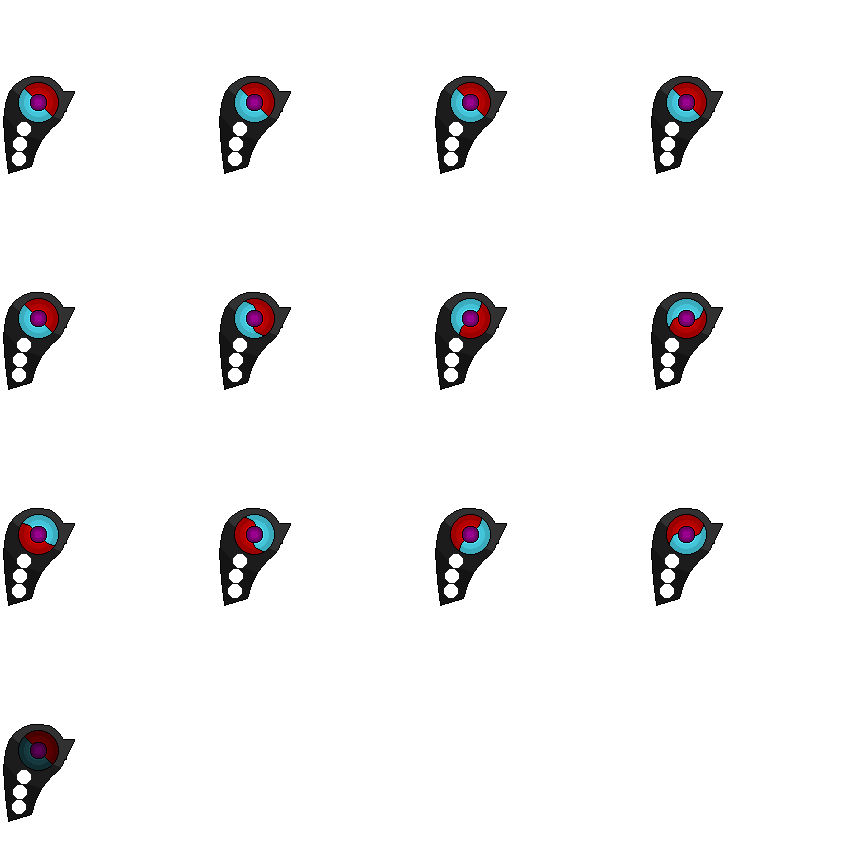
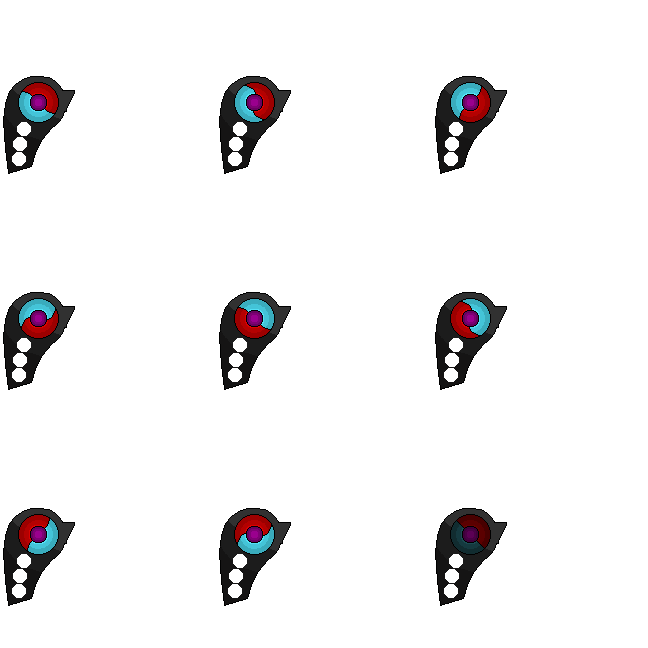
coisos novos

diff --git a/client/js/firstLevel.js b/client/js/firstLevel.js
@@ -9,11 +9,11 @@ var MUSIC_TitleOpening;
 
 var php_bar;
 var pmn_bar;
-var bhp_bar;
 var psp_hud;
-
+var bsp_hud;
 var playerX;
 var playerY;
+var bhp_bar;
 
 var cursors;
 var gameOver = false;
@@ -23,7 +23,7 @@ var gameOver = false;
 //Declaração de variáveis de estado
 var php = 5; //Define HP do Cavaleiro e Mago
 var pmn = 3; //Define Mana do Mago
-var bhp; //Define HP do chefe
+var bhp = 10; //Define HP do chefe
 
 var MUSIC_TitleOpening_Time = 0; //Para tocar apenas uma vez quando inicia o jogo
 var wasJumping = false; //Serve para tocar o som de aterrisagem, assim muda a variável e toca o som
@@ -133,8 +133,12 @@ firstLevel.preload = function () {
     frameHeight: 216,
   });
   this.load.spritesheet("BHP_Bar", "assets/hud/BHP_Bar.png", {
-    frameWidth: 384,
-    frameHeight: 192,
+    frameWidth: 512,
+    frameHeight: 256,
+  });
+  this.load.spritesheet("BSP_HUD", "assets/hud/BSP_HUD.png", {
+    frameWidth: 512,
+    frameHeight: 256,
   });
 
   //Botões
@@ -176,7 +180,7 @@ firstLevel.preload = function () {
 
 //CREATE
 firstLevel.create = function () {
-  this.cameras.main.setBounds(0, 0, 1000, 800);
+  this.cameras.main.setBounds(0, -150, 1000, 800);
 
   //Criando as teclas
   //Cavaleiro
@@ -231,6 +235,7 @@ firstLevel.create = function () {
     if (p_justAttacked === false && dodging === false) {
       SFX_Hit.play();
       php = php - 1;
+      bhp = bhp - 1;
       p_justAttacked = true;
       p_attackedCooldown = 0;
 
@@ -258,8 +263,10 @@ firstLevel.create = function () {
   php_bar = this.add.image(120, 45, "PHP_Bar", 0).setScrollFactor(0);
   psp_hud = this.add.sprite(120, 45, "PSP_HUD", 0).setScrollFactor(0);
   pmn_bar = this.add.image(120, 45, "PMN_Bar", 0).setScrollFactor(0);
-  bhp_bar = this.add.image(600, 520, "BHP_Bar", 0).setScrollFactor(0);
-  bhp_bar.visible = false;
+  bhp_bar = this.add.image(575, 565, "BHP_Bar", 0).setScrollFactor(0);
+  bhp_bar.visible = true;
+  bsp_hud = this.add.sprite(575, 565, "BSP_HUD", 0).setScrollFactor(0);
+  bsp_hud.visible = true;
 
   //Áudio do jogo
   MUSIC_TitleOpening = this.sound.add("MUSIC_TitleOpening", { loop: false });
@@ -280,9 +287,19 @@ firstLevel.create = function () {
     key: "coreSpin",
     frames: this.anims.generateFrameNumbers("PSP_HUD", {
       start: 0,
+      end: 7,
+    }),
+    frameRate: 10,
+    repeat: -1,
+  });
+
+  this.anims.create({
+    key: "bossCoreLoop",
+    frames: this.anims.generateFrameNumbers("BSP_HUD", {
+      start: 0,
       end: 11,
     }),
-    frameRate: 15,
+    frameRate: 10,
     repeat: -1,
   });
 
@@ -527,8 +544,12 @@ firstLevel.update = function () {
   skull.setVelocityY(0);
 
   //HUD CÓDIGO
-  if (php >= 0) {
+  if (php >= 1) {
     psp_hud.anims.play("coreSpin", true);    
+  }
+
+  if (bhp >= 1){
+    bsp_hud.anims.play("bossCoreLoop", true);
   }
 
   if (php === 5) {
@@ -543,7 +564,7 @@ firstLevel.update = function () {
   } else if (php === 1) {
     php_bar.setFrame(4);
   } else if (php <= 0) {
-    psp_hud.setFrame(12);
+    psp_hud.setFrame(8);
   }
 
   if (pmn === 3) {
@@ -556,32 +577,29 @@ firstLevel.update = function () {
   } else if (pmn === 0) {
     pmn_bar.setFrame(3);
   }
-
-  if (bhp === 11) {
-    //Vitalidade do Boss HUD
-    bhp_bar.setFrame(0);
-  } else if (bhp === 10) {
-    bhp_bar.setFrame(1);
-  } else if (bhp === 9) {
-    bhp_bar.setFrame(2);
-  } else if (bhp === 8) {
-    bhp_bar.setFrame(3);
-  } else if (bhp === 7) {
-    bhp_bar.setFrame(4);
-  } else if (bhp === 6) {
-    bhp_bar.setFrame(5);
-  } else if (bhp === 5) {
-    bhp_bar.setFrame(6);
-  } else if (bhp === 4) {
-    bhp_bar.setFrame(7);
-  } else if (bhp === 3) {
-    bhp_bar.setFrame(8);
-  } else if (bhp === 2) {
-    bhp_bar.setFrame(9);
-  } else if (bhp === 1) {
+  
+  if (bhp === 10) {
     bhp_bar.setFrame(10);
+  } else if (bhp === 9) {
+    bhp_bar.setFrame(9);
+  } else if (bhp === 8) {
+    bhp_bar.setFrame(8);
+  } else if (bhp === 7) {
+    bhp_bar.setFrame(7);
+  } else if (bhp === 6) {
+    bhp_bar.setFrame(6);
+  } else if (bhp === 5) {
+    bhp_bar.setFrame(5);
+  } else if (bhp === 4) {
+    bhp_bar.setFrame(4);
+  } else if (bhp === 3) {
+    bhp_bar.setFrame(3);
+  } else if (bhp === 2) {
+    bhp_bar.setFrame(2);
+  } else if (bhp === 1) {
+    bhp_bar.setFrame(1);
   } else if (bhp <= 0) {
-    bhp_bar.setFrame(11);
+    bsp_hud.setFrame(12);
   }
 
   //SALTO
